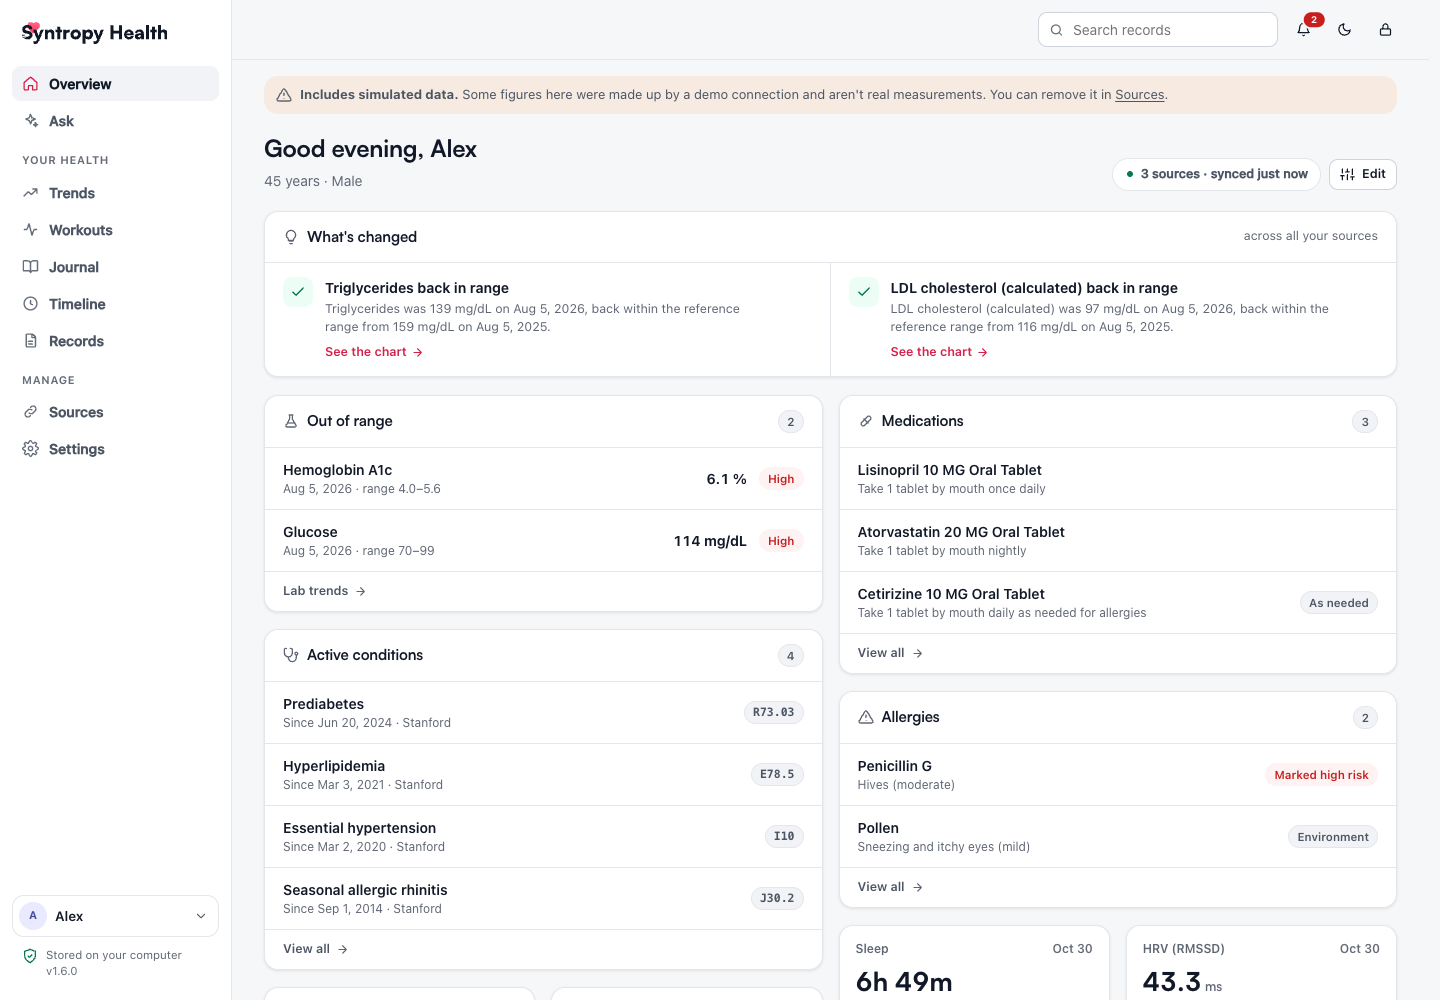
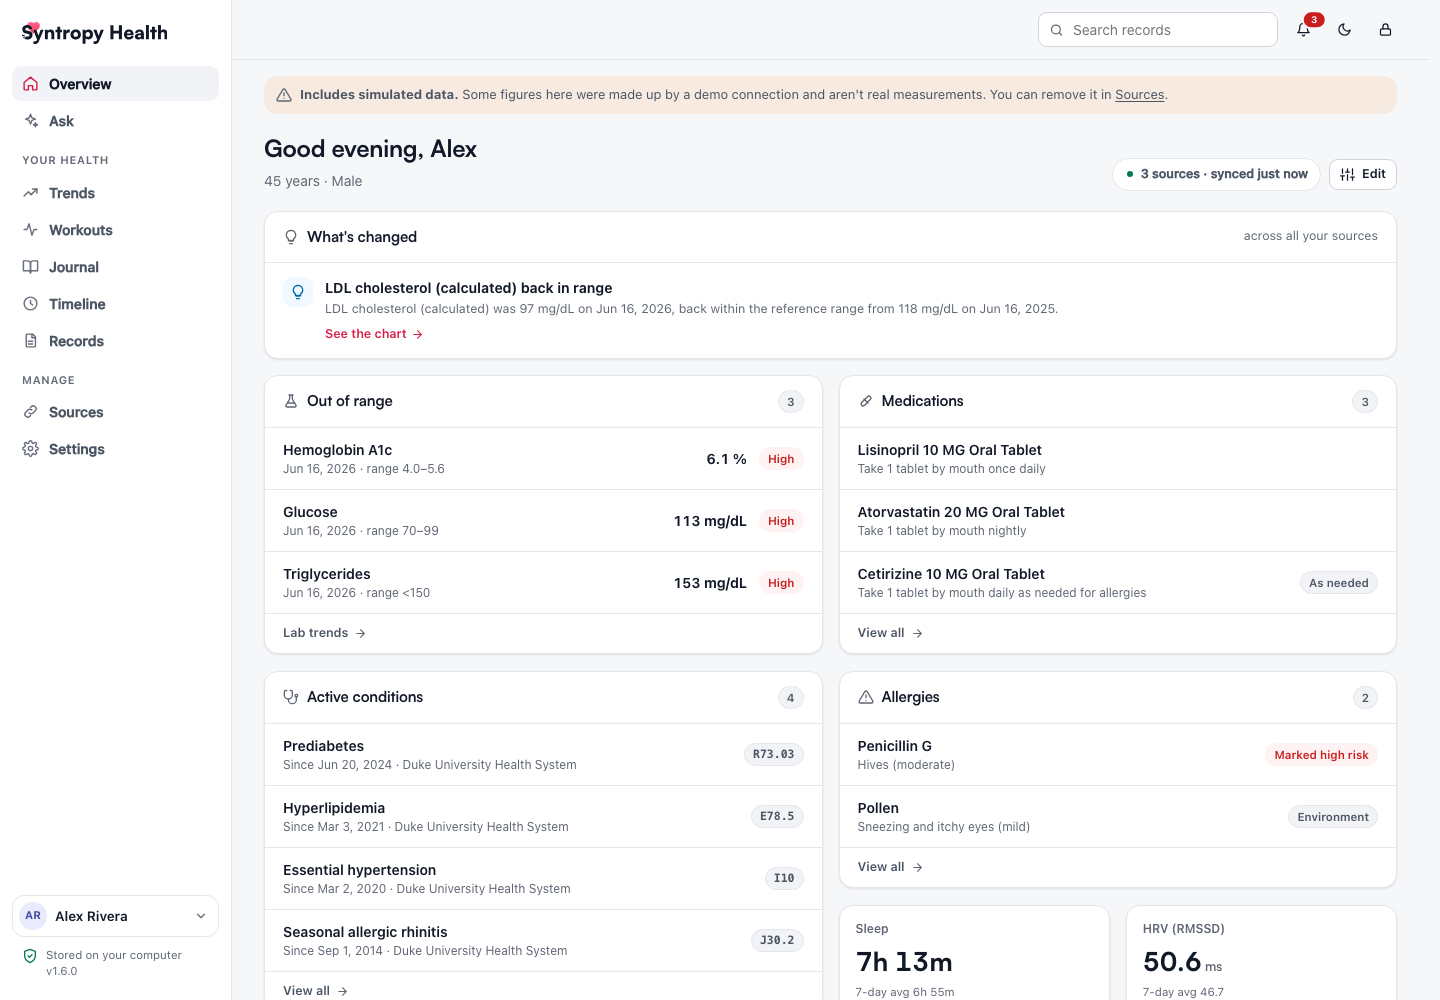
The README's pictures show the app as it is now, and the Trends one is described as what it shows
Trends still had the Before and after card that was taken out, and Overview the ticks on "back in range". Both are
new captures from simulated data, at window size so the sidebar reaches the bottom.

diff --git a/README.md b/README.md
@@ -72,7 +72,7 @@ standard range for a result and whether it's outside it, and changes from your o
 
 It organizes records and doesn't give medical advice or diagnose anything.
 
-<p align="center"><img src=".github/images/trends.png" alt="Trends in Syntropy Health: heart rate variability over 30 days, compared with sleep" width="900"></p>
+<p align="center"><img src=".github/images/trends.png" alt="Trends in Syntropy Health: hemoglobin A1c over four years against its reference range, with every result and its source" width="900"></p>
 
 ## Get started
 
